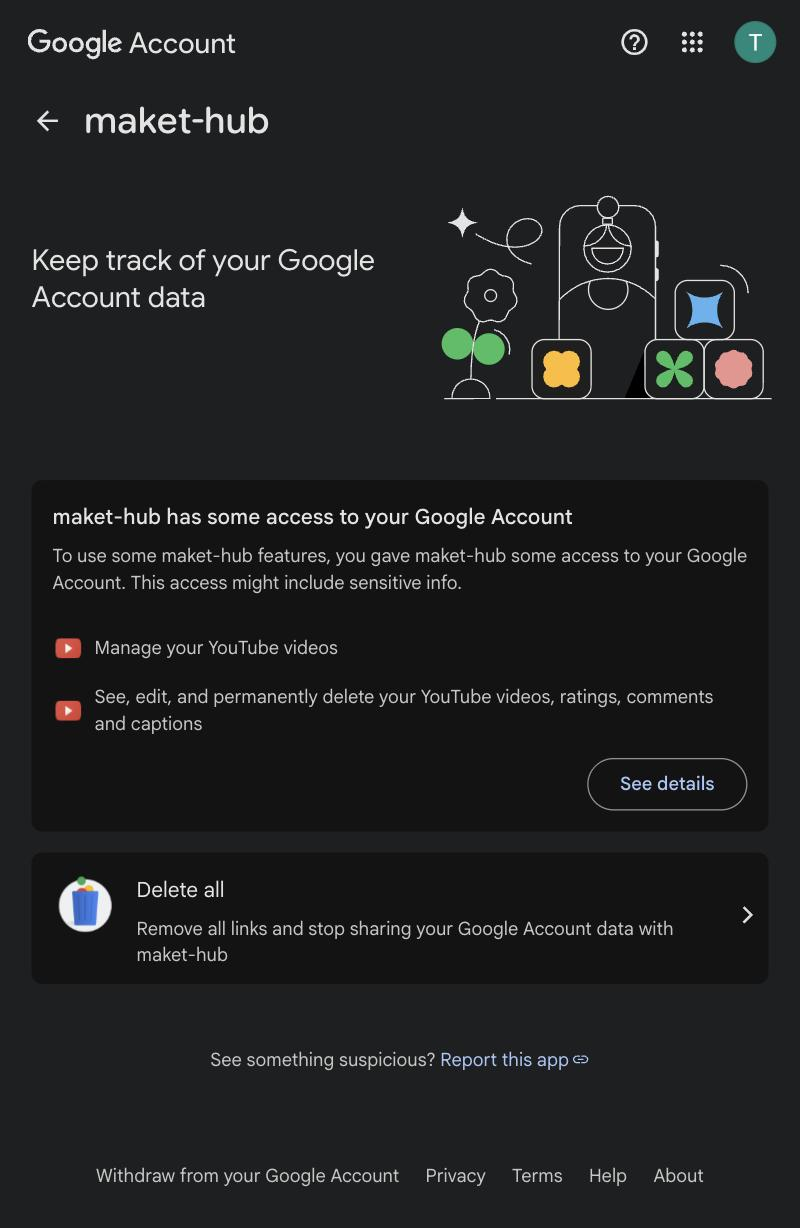
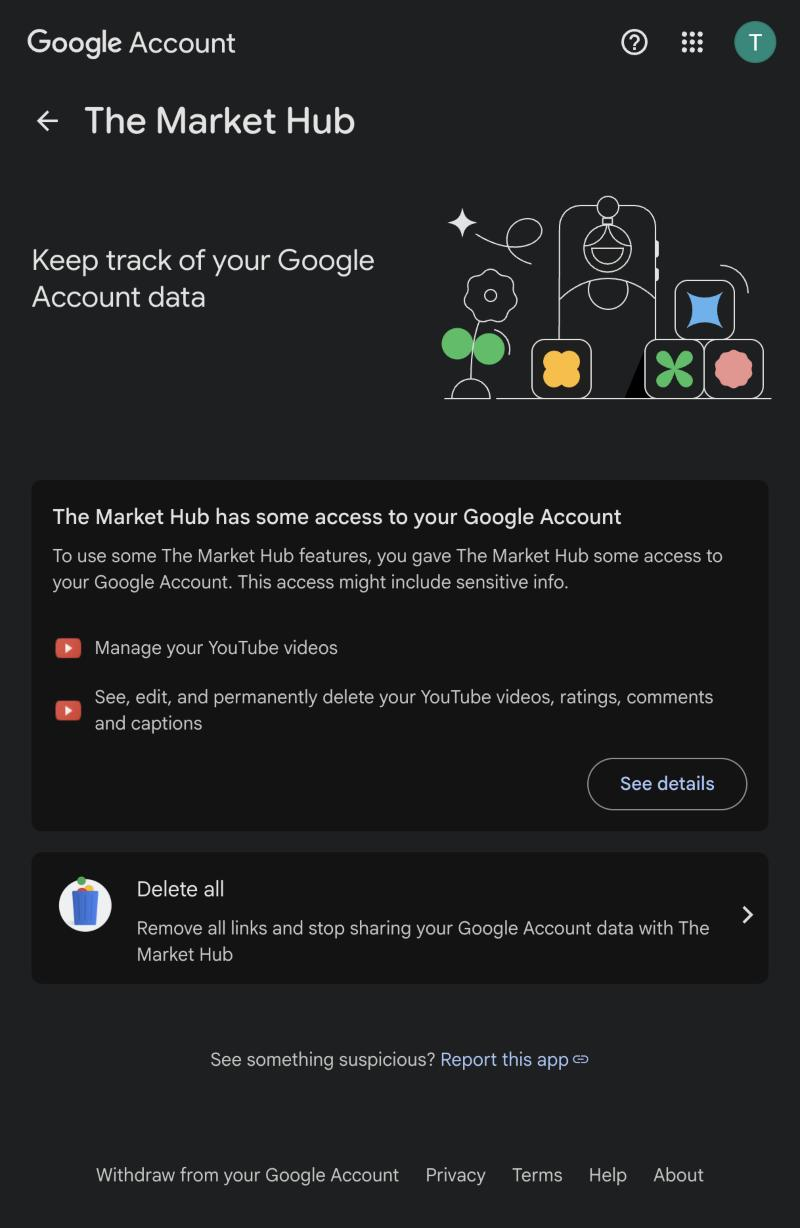
YouTube audit: consent screen renamed to The Market Hub, with its links; consent and revocation captures

diff --git a/docs/youtube-audit.md b/docs/youtube-audit.md
@@ -16,16 +16,17 @@ la lista Money 101 en `channel.toml`; la política de privacidad y las condicion
 que ya hablan de la herramienta desde el 2026-10-13 (`market-hub-landing` 3031c32); y las
 capturas de `docs/youtube-audit/` (abajo, "Las pruebas").
 
+Y, el mismo día, la pantalla de consentimiento de OAuth (Google Auth Platform, Branding): el
+nombre de la app pasó de "maket-hub" a **"The Market Hub"** (el mismo proyecto da el login de
+Google del portal, así que no se usó un nombre solo de la herramienta) y se le pusieron la página
+principal, la política de privacidad y las condiciones del portal, que no tenía. `make auth` se
+repitió con el nombre nuevo.
+
 1. **Los datos personales** del usuario: nombre legal, dirección postal, país y el correo de
    contacto. Van a Google.
-2. **El nombre de la app en la pantalla de consentimiento** es "maket-hub", con una errata
-   (Google Cloud Console, Google Auth Platform, Branding, App name). Debe coincidir con el
-   "API Client Name" de abajo, "Market Hub Media". Lo guarda el usuario. Después, `make auth`
-   otra vez, para capturar la pantalla de consentimiento (no se hizo: se aceptó antes) y
-   repetir `oauth-revocation.jpg`, que enseña el nombre viejo.
-3. **Una subida de prueba** con `make upload`, para capturar la terminal con su salida: la
+2. **Una subida de prueba** con `make upload`, para capturar la terminal con su salida: la
    primera que se haga (el episodio 7) vale, y quedará en privado hasta la auditoría.
-4. **Enviar el formulario**, que es del usuario: lo que se declara va en su nombre.
+3. **Enviar el formulario**, que es del usuario: lo que se declara va en su nombre.
 
 ## Sección 1. Request type
 
@@ -70,7 +71,7 @@ capturas de `docs/youtube-audit/` (abajo, "Las pruebas").
 
 ## Sección 4. API client overview and access information
 
-- API Client Name: **Market Hub Media**
+- API Client Name: **The Market Hub** (el nombre de la pantalla de consentimiento)
 - Does this API Client name contain the word "YouTube"? **No**
 - Primary Access URL: **https://themarkethub.app/media/** (la página del portal que enseña el
   canal; la herramienta en sí no tiene web)
@@ -120,8 +121,8 @@ En `docs/youtube-audit/`, sacadas el 2026-10-17 de la web desplegada:
 | Privacy Policy Screenshots, "showing YouTube sections, Google Privacy Policy link, deletion policies" | `privacy-policy.png` (la página entera) |
 | Homepage Screenshot, "showing where Privacy Policy link is located" | `homepage-privacy-link.png` (el pie, con Privacy y Terms) |
 | Terms of Service Documentation | `terms.pdf` (y `terms.png`) |
-| Conditional evidence: OAuth revocation | `oauth-revocation.jpg` (myaccount.google.com, la app con sus permisos y "Delete all"); repetirla tras el cambio de nombre |
-| Conditional evidence: OAuth consent screen | Falta: al repetir `make auth` tras el cambio de nombre |
+| Conditional evidence: OAuth consent screen | `oauth-consent.jpg` ("The Market Hub wants access"), `oauth-consent-scopes.jpg` (sus dos permisos de YouTube) y `oauth-unverified-warning.jpg` (el aviso de app en pruebas) |
+| Conditional evidence: OAuth revocation | `oauth-revocation.jpg` (myaccount.google.com: la app, sus permisos y "Delete all") |
 | Conditional evidence: Upload interface | Falta: la terminal de la primera `make upload` |
 
 ## Hecho: el apartado de la política de privacidad del portal (desplegado el 2026-10-13, con este texto)

diff --git a/docs/HANDOFF.md b/docs/HANDOFF.md
@@ -177,9 +177,11 @@ dice. El tráiler y el episodio 1 ya están.
    `the.market.hub.app@gmail.com`, tuvo que añadirse antes como usuaria de prueba del cliente
    OAuth, que estaba sin ninguna) y la lista Money 101 en `channel.toml` (`PLUm8zJ2905YQ`). Así
    `make upload` ya sube vídeo y Short con miniatura, subtítulos y lista, pero en privado hasta
-   pasar la auditoría: hasta entonces el usuario los pasa a público en YouTube Studio. Lo que
-   falta para enviarla (sus datos, el nombre "maket-hub" de la pantalla de consentimiento, dos
-   capturas) está al principio de `docs/youtube-audit.md`; las demás pruebas, en
+   pasar la auditoría: hasta entonces el usuario los pasa a público en YouTube Studio. La app
+   de la pantalla de consentimiento se llama ya "The Market Hub" (antes "maket-hub"; es la del
+   proyecto, que también da el login de Google del portal) y enlaza la privacidad y las
+   condiciones del portal. Para enviar la auditoría faltan los datos del usuario y la captura
+   de la primera `make upload` (`docs/youtube-audit.md`); las demás pruebas están en
    `docs/youtube-audit/`.
 2. Los siguientes temas, uno a uno: `/analyze-idea`, brief, `/make-video`. El episodio 6 (el
    colchón de emergencia) está publicado. El siguiente es el
